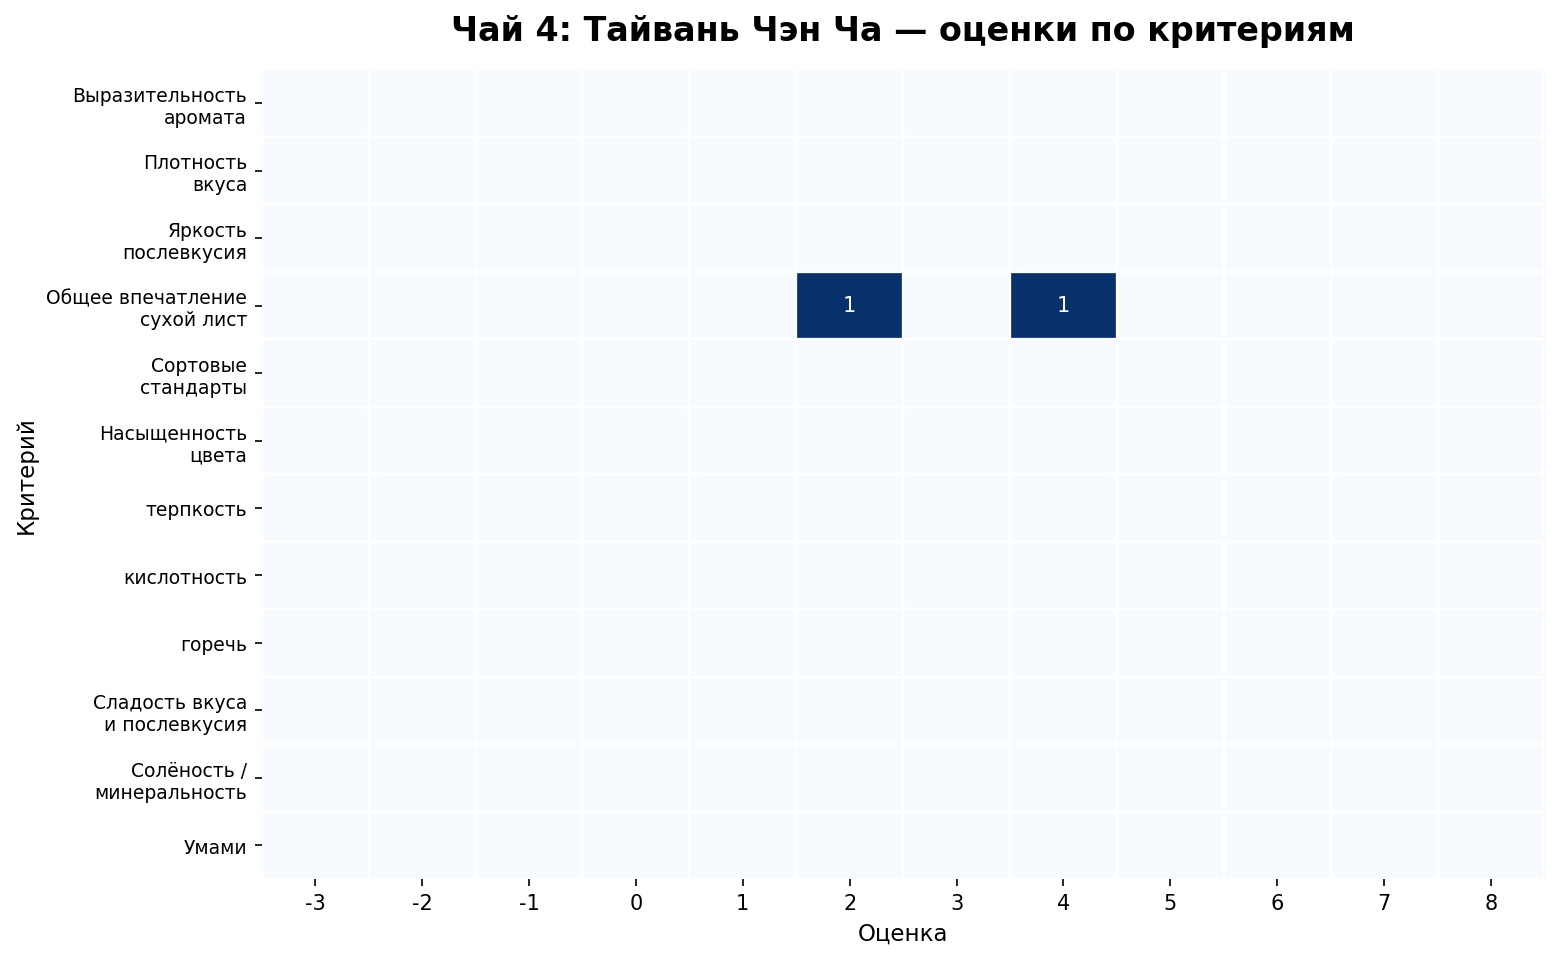
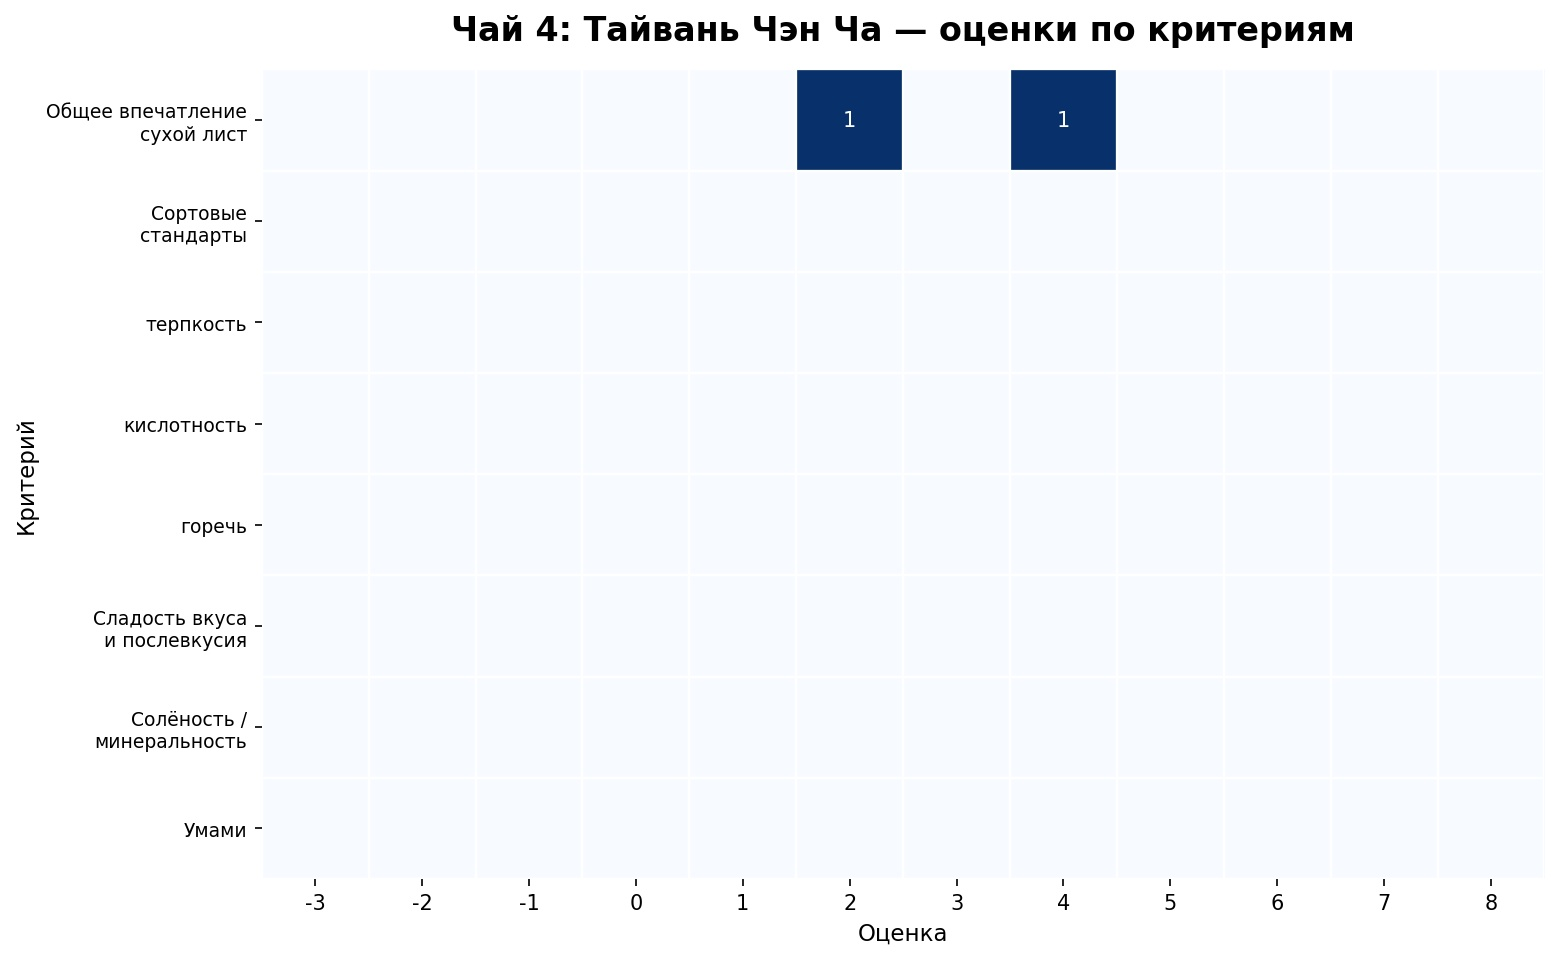
Render brewing curve criteria as line charts

diff --git a/generate_last_tasting_simple_infographics.py b/generate_last_tasting_simple_infographics.py
@@ -26,6 +26,15 @@ TEA_NAMES = {
 
 TEA_NAMES_ONE_LINE = {key: value.replace("\n", " ") for key, value in TEA_NAMES.items()}
 
+BREWING_CRITERIA_IDS = {57, 58, 59, 62}
+BREWING_CRITERIA_COLORS = {
+    57: "#4E79A7",
+    58: "#F28E2B",
+    59: "#59A14F",
+    62: "#B07AA1",
+}
+
+
 
 def slugify(text: str) -> str:
     repl = {
@@ -106,7 +115,8 @@ def select_data():
                COALESCE(tb.name, 'РАЗДЕЛ ОЦЕНКИ: органолептика заваренного чая') AS block_name,
                pt."order" AS tea_order,
                pcr.mark,
-               pr.user_id
+               pr.user_id,
+               pcr.x
         FROM catalog_productcriteriareview pcr
         JOIN catalog_productreview pr ON pr.id = pcr.product_review_id
         JOIN catalog_producttasting pt ON pt.id = pr.product_tasting_id
@@ -226,10 +236,22 @@ def select_data():
 def build_marks(marks):
     criteria = {}
     per_criterion = defaultdict(lambda: defaultdict(list))
-    for cid, name, grade, block, tea_order, mark, user_id in marks:
+    for cid, name, grade, block, tea_order, mark, user_id, x_value in marks:
         criteria[cid] = {"id": cid, "name": name, "grade": grade or [], "block": block}
         per_criterion[cid][tea_order].append(mark)
     return criteria, per_criterion
+
+
+def build_non_brewing_criteria(criteria):
+    return {cid: data for cid, data in criteria.items() if cid not in BREWING_CRITERIA_IDS}
+
+
+def build_brewing_points(marks):
+    points = defaultdict(lambda: defaultdict(lambda: defaultdict(list)))
+    for cid, name, grade, block, tea_order, mark, user_id, x_value in marks:
+        if cid in BREWING_CRITERIA_IDS and x_value is not None:
+            points[tea_order][cid][int(x_value)].append(mark)
+    return points
 
 
 def save_fig(fig, filename):
@@ -568,6 +590,69 @@ def draw_per_tea_criteria_heatmaps(criteria, per_criterion):
         save_fig(fig, filename)
 
 
+
+def draw_brewing_curves_by_tea(criteria, brewing_points):
+    for tea_order in range(5):
+        fig, ax = plt.subplots(figsize=(9.5, 5.8), facecolor="white")
+        has_data = False
+
+        for cid in sorted(BREWING_CRITERIA_IDS):
+            criterion_points = brewing_points.get(tea_order, {}).get(cid, {})
+            if not criterion_points:
+                continue
+            has_data = True
+            xs = sorted(criterion_points)
+            ys = [float(np.mean(criterion_points[x])) for x in xs]
+            counts = [len(criterion_points[x]) for x in xs]
+            color = BREWING_CRITERIA_COLORS[cid]
+            ax.plot(xs, ys, marker="o", linewidth=2.6, markersize=7, color=color, label=criteria[cid]["name"])
+            # Tiny count labels only when multiple people contributed to a point.
+            for x, y, count in zip(xs, ys, counts):
+                if count > 1:
+                    ax.text(x, y + 0.25, str(count), ha="center", va="bottom", fontsize=8, color=color)
+
+        ax.set_title(f"Чай {tea_order + 1}: {TEA_NAMES_ONE_LINE[tea_order]} — графики по проливам", fontsize=15, fontweight="bold", pad=14)
+        ax.set_xlabel("Номер пролива", fontsize=11)
+        ax.set_ylabel("Оценка", fontsize=11)
+        ax.set_xticks(range(1, 7))
+        ax.set_xlim(0.7, 6.3)
+        ax.set_ylim(-0.2, 10.2)
+        ax.grid(True, color="#dddddd", linewidth=0.8)
+        ax.spines[["top", "right"]].set_visible(False)
+
+        if has_data:
+            ax.legend(loc="upper right", fontsize=9, frameon=False)
+        else:
+            ax.text(0.5, 0.5, "Нет данных по графикам проливов", ha="center", va="center", transform=ax.transAxes, fontsize=13, color="#777")
+
+        save_fig(fig, f"08_tea_{tea_order + 1}_brewing_curves.jpg")
+
+
+def draw_brewing_curves_by_metric(criteria, brewing_points):
+    for cid in sorted(BREWING_CRITERIA_IDS):
+        fig, ax = plt.subplots(figsize=(9.5, 5.8), facecolor="white")
+        has_data = False
+        for tea_order in range(5):
+            criterion_points = brewing_points.get(tea_order, {}).get(cid, {})
+            if not criterion_points:
+                continue
+            has_data = True
+            xs = sorted(criterion_points)
+            ys = [float(np.mean(criterion_points[x])) for x in xs]
+            ax.plot(xs, ys, marker="o", linewidth=2.3, markersize=6, label=f"Чай {tea_order + 1}: {TEA_NAMES_ONE_LINE[tea_order]}")
+
+        ax.set_title(f"{criteria[cid]['name']} — динамика по проливам", fontsize=15, fontweight="bold", pad=14)
+        ax.set_xlabel("Номер пролива", fontsize=11)
+        ax.set_ylabel("Средняя оценка", fontsize=11)
+        ax.set_xticks(range(1, 7))
+        ax.set_xlim(0.7, 6.3)
+        ax.set_ylim(-0.2, 10.2)
+        ax.grid(True, color="#dddddd", linewidth=0.8)
+        ax.spines[["top", "right"]].set_visible(False)
+        if has_data:
+            ax.legend(loc="upper right", fontsize=9, frameon=False)
+        save_fig(fig, f"09_metric_{cid}_{slugify(criteria[cid]['name'])}_brewing_curves.jpg")
+
 def write_readme(participants, teas, criteria, tags, free_texts):
     lines = [
         "# One-graph JPEG infographics for the May 31 tasting",
@@ -600,18 +685,22 @@ def main():
 
     participants, teas, marks, tags, activity, free_texts, phrase_answers = select_data()
     criteria, per_criterion = build_marks(marks)
+    non_brewing_criteria = build_non_brewing_criteria(criteria)
+    brewing_points = build_brewing_points(marks)
 
-    draw_average_heatmap(criteria, per_criterion)
+    draw_average_heatmap(non_brewing_criteria, per_criterion)
     draw_top_tags(tags)
     draw_tags_by_tea(tags)
     draw_activity(activity)
     draw_text_comments_count(free_texts)
     draw_selected_and_freeform_tags(tags, free_texts, phrase_answers)
 
-    draw_per_tea_criteria_heatmaps(criteria, per_criterion)
+    draw_per_tea_criteria_heatmaps(non_brewing_criteria, per_criterion)
+    draw_brewing_curves_by_tea(criteria, brewing_points)
+    draw_brewing_curves_by_metric(criteria, brewing_points)
 
-    for cid in sorted(criteria):
-        draw_criterion_distribution(criteria[cid], per_criterion[cid])
+    for cid in sorted(non_brewing_criteria):
+        draw_criterion_distribution(non_brewing_criteria[cid], per_criterion[cid])
 
     write_readme(participants, teas, criteria, tags, free_texts)
     print(f"participants={len(participants)} teas={len(teas)} criteria={len(criteria)}")

diff --git a/infographics_last_tasting_simple/README.md b/infographics_last_tasting_simple/README.md
@@ -19,12 +19,17 @@ Generated files:
 - `07_tea_3_all_criteria_heatmap.jpg`
 - `07_tea_4_all_criteria_heatmap.jpg`
 - `07_tea_5_all_criteria_heatmap.jpg`
-- `57_vyrazitelnost_aromata_distribution.jpg`
-- `58_plotnost_vkusa_distribution.jpg`
-- `59_yarkost_poslevkusiya_distribution.jpg`
+- `08_tea_1_brewing_curves.jpg`
+- `08_tea_2_brewing_curves.jpg`
+- `08_tea_3_brewing_curves.jpg`
+- `08_tea_4_brewing_curves.jpg`
+- `08_tea_5_brewing_curves.jpg`
+- `09_metric_57_vyrazitelnost_aromata_brewing_curves.jpg`
+- `09_metric_58_plotnost_vkusa_brewing_curves.jpg`
+- `09_metric_59_yarkost_poslevkusiya_brewing_curves.jpg`
+- `09_metric_62_nasyschennost_cveta_brewing_curves.jpg`
 - `60_obschee_vpechatlenie_ot_suhogo_chaynogo_lista_distribution.jpg`
 - `61_sootvetstvie_sortovym_standartam_distribution.jpg`
-- `62_nasyschennost_cveta_distribution.jpg`
 - `63_terpkost_distribution.jpg`
 - `64_kislotnost_distribution.jpg`
 - `65_gorech_distribution.jpg`
